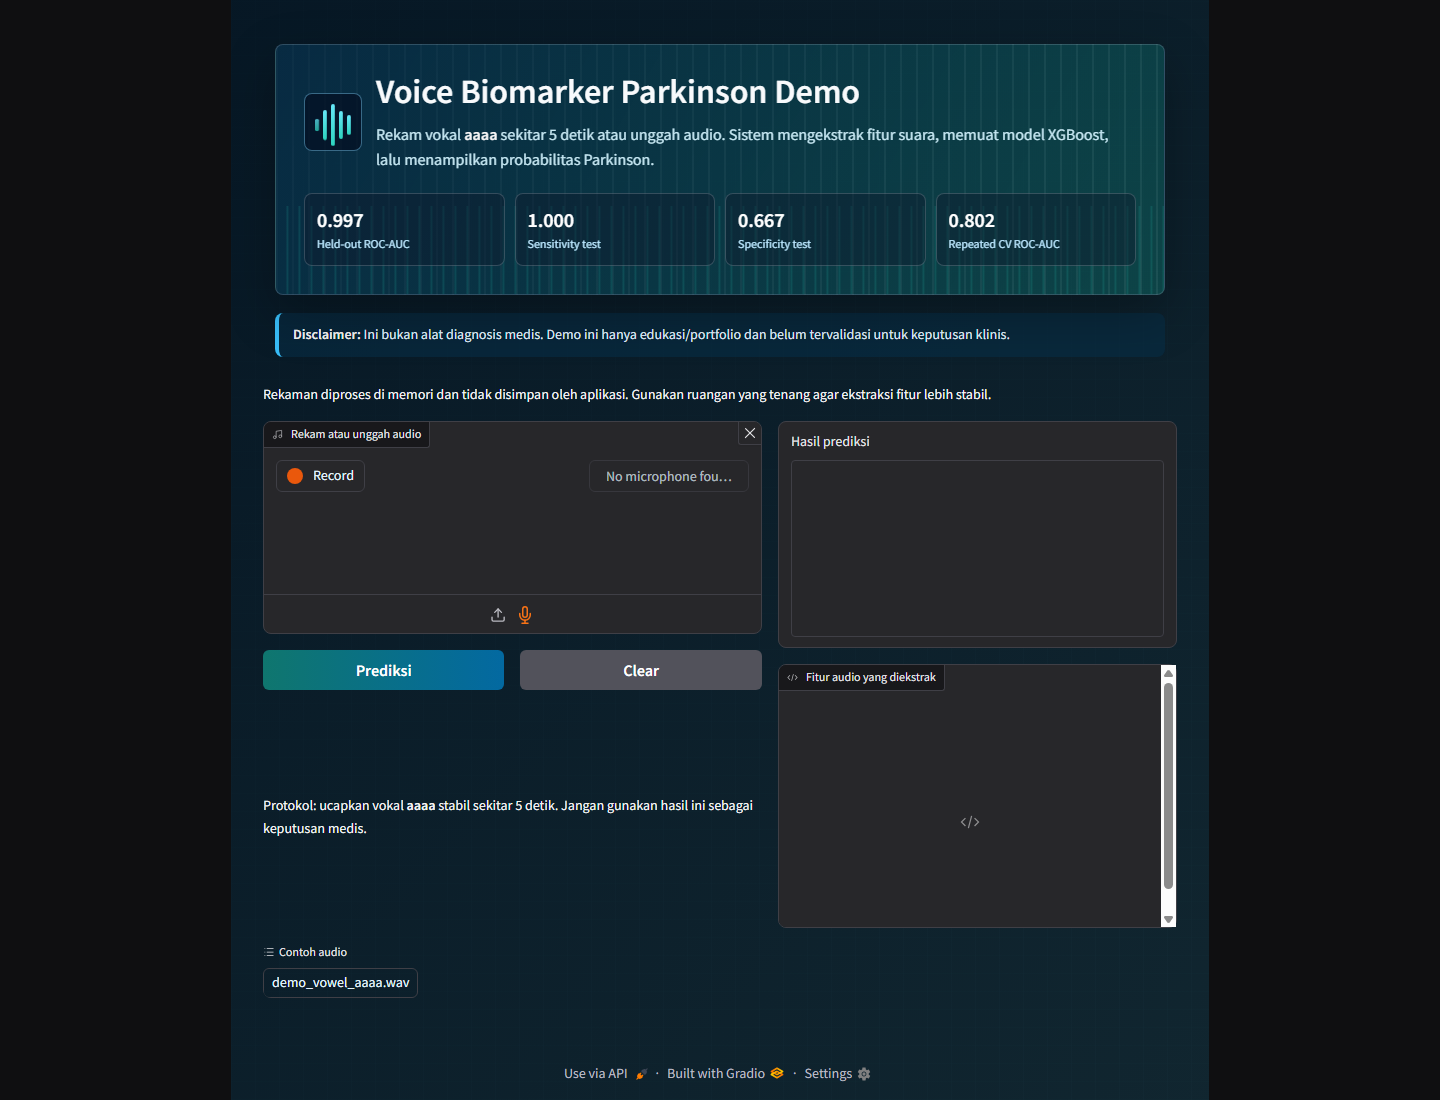
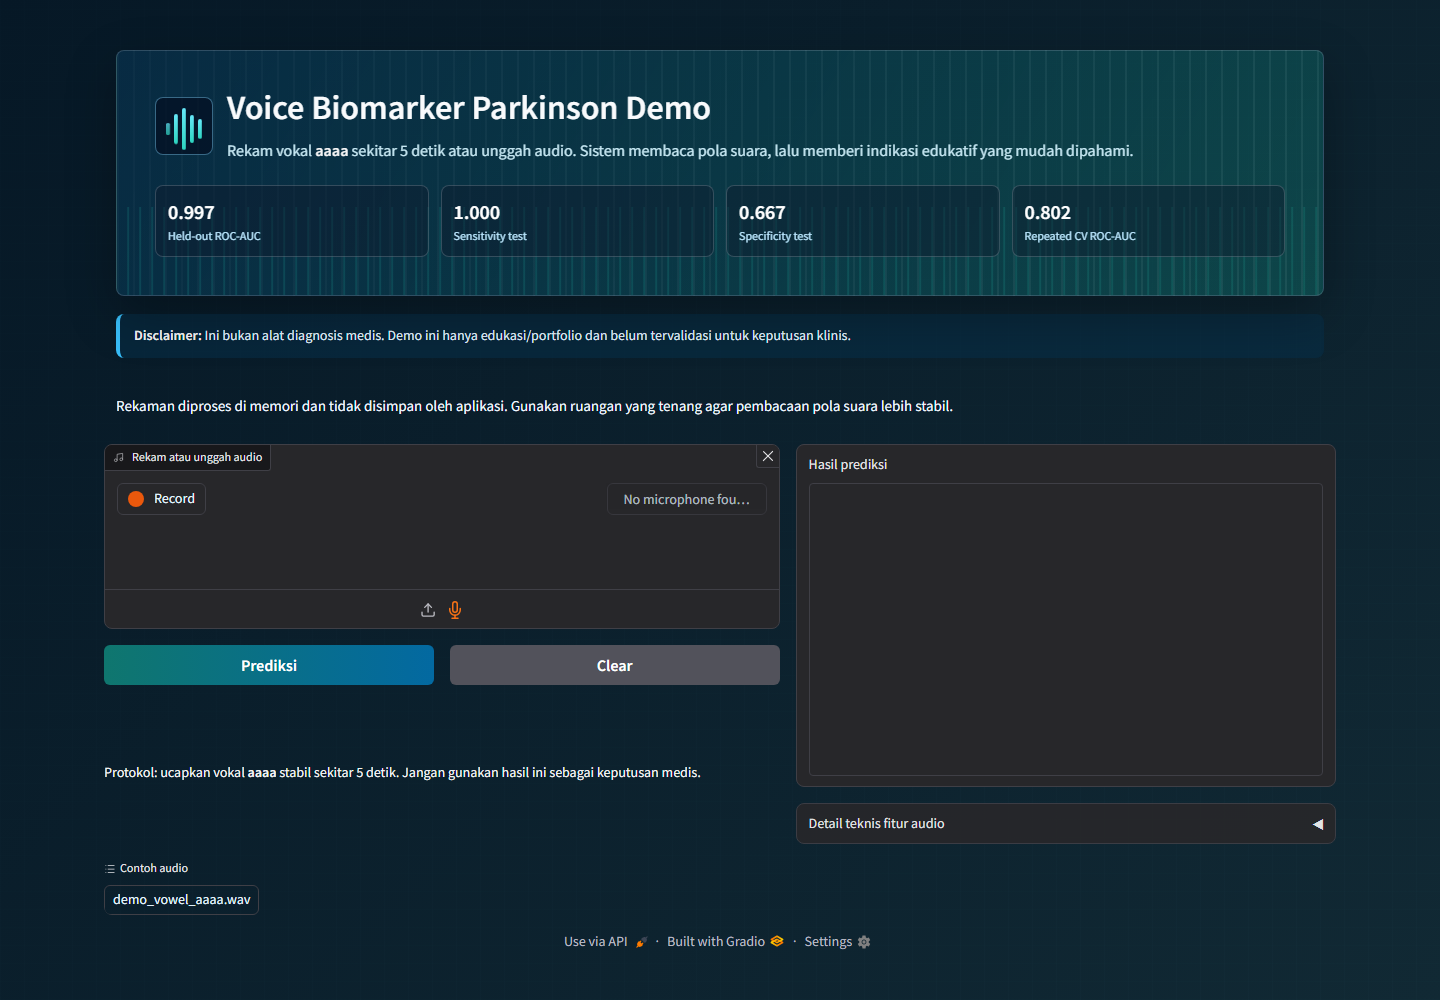
ui: make demo fullscreen and simplify prediction copy

diff --git a/app/demo.py b/app/demo.py
@@ -23,17 +23,31 @@ DISCLAIMER = (
 )
 
 THEME_CSS = """
-body, .gradio-container {
+html, body, gradio-app, .gradio-container {
     background:
         linear-gradient(135deg, rgba(6, 24, 38, 0.94), rgba(17, 41, 52, 0.88)),
         repeating-linear-gradient(90deg, rgba(125, 211, 252, 0.10) 0 1px, transparent 1px 24px),
         repeating-linear-gradient(0deg, rgba(45, 212, 191, 0.08) 0 1px, transparent 1px 18px) !important;
     color: #e5f6ff;
     min-height: 100vh;
+    width: 100%;
+}
+body {
+    margin: 0 !important;
+    overflow-x: hidden;
 }
 .gradio-container {
-    max-width: 1120px !important;
-    margin: 0 auto !important;
+    max-width: none !important;
+    width: 100vw !important;
+    margin: 0 !important;
+    padding: 24px clamp(18px, 5vw, 72px) 32px !important;
+    box-sizing: border-box;
+}
+.main {
+    max-width: none !important;
+}
+.contain {
+    max-width: none !important;
 }
 .hero-shell {
     position: relative;
@@ -43,8 +57,8 @@ body, .gradio-container {
         linear-gradient(120deg, rgba(8, 47, 73, 0.82), rgba(15, 118, 110, 0.42)),
         repeating-linear-gradient(90deg, rgba(255,255,255,0.10) 0 2px, transparent 2px 16px);
     border-radius: 8px;
-    padding: 28px;
-    margin: 18px 0;
+    padding: clamp(22px, 3vw, 38px);
+    margin: 0 0 18px;
     box-shadow: 0 18px 50px rgba(0, 0, 0, 0.28);
 }
 .hero-shell:after {
@@ -96,7 +110,7 @@ body, .gradio-container {
 }
 .hero-subtitle {
     margin: 12px 0 0;
-    max-width: 760px;
+    max-width: 920px;
     color: #c7e8f3;
     font-size: 16px;
     line-height: 1.55;
@@ -106,7 +120,7 @@ body, .gradio-container {
 .metric-strip {
     display: grid;
     grid-template-columns: repeat(4, minmax(0, 1fr));
-    gap: 10px;
+    gap: 12px;
     margin-top: 22px;
     position: relative;
     z-index: 1;
@@ -134,6 +148,19 @@ body, .gradio-container {
     border-radius: 8px;
     padding: 12px 14px;
     color: #e0f2fe;
+    margin-bottom: 18px;
+}
+.intro-copy {
+    color: #eff6ff;
+    margin: 0 0 18px;
+    font-size: 15px;
+}
+.result-card textarea {
+    font-size: 16px !important;
+    line-height: 1.55 !important;
+}
+.technical-details {
+    opacity: 0.92;
 }
 .gradio-container .block,
 .gradio-container .form,
@@ -169,7 +196,7 @@ HERO_HTML = f"""
       <h1 class="hero-title">Voice Biomarker Parkinson Demo</h1>
       <p class="hero-subtitle">
         Rekam vokal <strong>aaaa</strong> sekitar 5 detik atau unggah audio.
-        Sistem mengekstrak fitur suara, memuat model XGBoost, lalu menampilkan probabilitas Parkinson.
+        Sistem membaca pola suara, lalu memberi indikasi edukatif yang mudah dipahami.
       </p>
     </div>
   </div>
@@ -188,21 +215,31 @@ HERO_HTML = f"""
 
 def _format_prediction(audio_path: str | None) -> tuple[str, str]:
     if audio_path is None:
-        return "Belum ada audio.", "{}"
+        return "Silakan rekam suara atau unggah audio terlebih dahulu.", "{}"
 
     try:
         result = predict_audio(audio_path)
     except Exception as exc:
-        return f"Gagal memproses audio: {exc}", "{}"
+        return f"Audio belum bisa diproses.\n\nPenyebab teknis: {exc}", "{}"
 
     probability = float(result["probability_parkinson"])
-    confidence = probability if result["predicted_label"] == 1 else 1 - probability
+    percentage = probability * 100
+    if probability >= 0.75:
+        risk_text = "Indikasi pola suara mirip Parkinson terdeteksi tinggi."
+        tone = "Gunakan hasil ini sebagai sinyal edukatif saja, bukan kesimpulan medis."
+    elif probability >= 0.45:
+        risk_text = "Pola suara berada di area abu-abu."
+        tone = "Coba rekam ulang di ruangan yang lebih tenang untuk melihat apakah hasilnya konsisten."
+    else:
+        risk_text = "Indikasi pola suara mirip Parkinson terdeteksi rendah."
+        tone = "Hasil rendah tidak berarti bebas risiko medis."
     summary = (
-        f"Prediksi: {result['label']}\n"
-        f"Probabilitas Parkinson: {probability:.3f}\n"
-        f"Confidence label terpilih: {confidence:.3f}\n"
-        f"Threshold: {result['threshold']:.3f}\n"
-        f"Model: {result['model_name']}\n\n"
+        f"{risk_text}\n\n"
+        f"Skor indikasi: {percentage:.1f}%\n\n"
+        f"Makna hasil:\n"
+        f"- Skor lebih tinggi berarti pola fitur suara lebih mirip data Parkinson pada dataset latihan.\n"
+        f"- Hasil bisa berubah karena kualitas mikrofon, noise, durasi rekaman, dan cara mengucapkan vokal.\n"
+        f"- {tone}\n\n"
         f"{DISCLAIMER}"
     )
     feature_preview = json.dumps(result["features"], indent=2)
@@ -214,9 +251,9 @@ def build_demo() -> gr.Blocks:
     create_sample_audio(SAMPLE_AUDIO_PATH)
     with gr.Blocks(title="Voice Biomarker Parkinson Demo") as demo:
         gr.HTML(HERO_HTML)
-        gr.Markdown(
-            "Rekaman diproses di memori dan tidak disimpan oleh aplikasi. "
-            "Gunakan ruangan yang tenang agar ekstraksi fitur lebih stabil."
+        gr.HTML(
+            '<p class="intro-copy">Rekaman diproses di memori dan tidak disimpan oleh aplikasi. '
+            'Gunakan ruangan yang tenang agar pembacaan pola suara lebih stabil.</p>'
         )
 
         with gr.Row(equal_height=True):
@@ -234,8 +271,9 @@ def build_demo() -> gr.Blocks:
                     "Jangan gunakan hasil ini sebagai keputusan medis."
                 )
             with gr.Column(scale=4):
-                prediction = gr.Textbox(label="Hasil prediksi", lines=8)
-                features = gr.Code(label="Fitur audio yang diekstrak", language="json")
+                prediction = gr.Textbox(label="Hasil prediksi", lines=11, elem_classes=["result-card"])
+                with gr.Accordion("Detail teknis fitur audio", open=False, elem_classes=["technical-details"]):
+                    features = gr.Code(label="Fitur yang diekstrak", language="json")
         gr.Examples(examples=[str(SAMPLE_AUDIO_PATH)], inputs=audio, label="Contoh audio")
 
         predict_button.click(_format_prediction, inputs=audio, outputs=[prediction, features])

diff --git a/reports/phase5_demo_report.md b/reports/phase5_demo_report.md
@@ -7,7 +7,8 @@
 - Inputs: browser microphone and audio upload
 - Protocol: record a stable `aaaa` vowel for about 5 seconds
 - Sample audio: `data/samples/demo_vowel_aaaa.wav`
-- Visual polish: spectrogram-style background, animated waveform logo, metric strip, and two-column prediction layout
+- Visual polish: full-screen spectrogram-style background, animated waveform logo, metric strip, and two-column prediction layout
+- Prediction copy: user-friendly Indonesian summary with indication score and plain-language interpretation
 
 ## Inference Flow
 